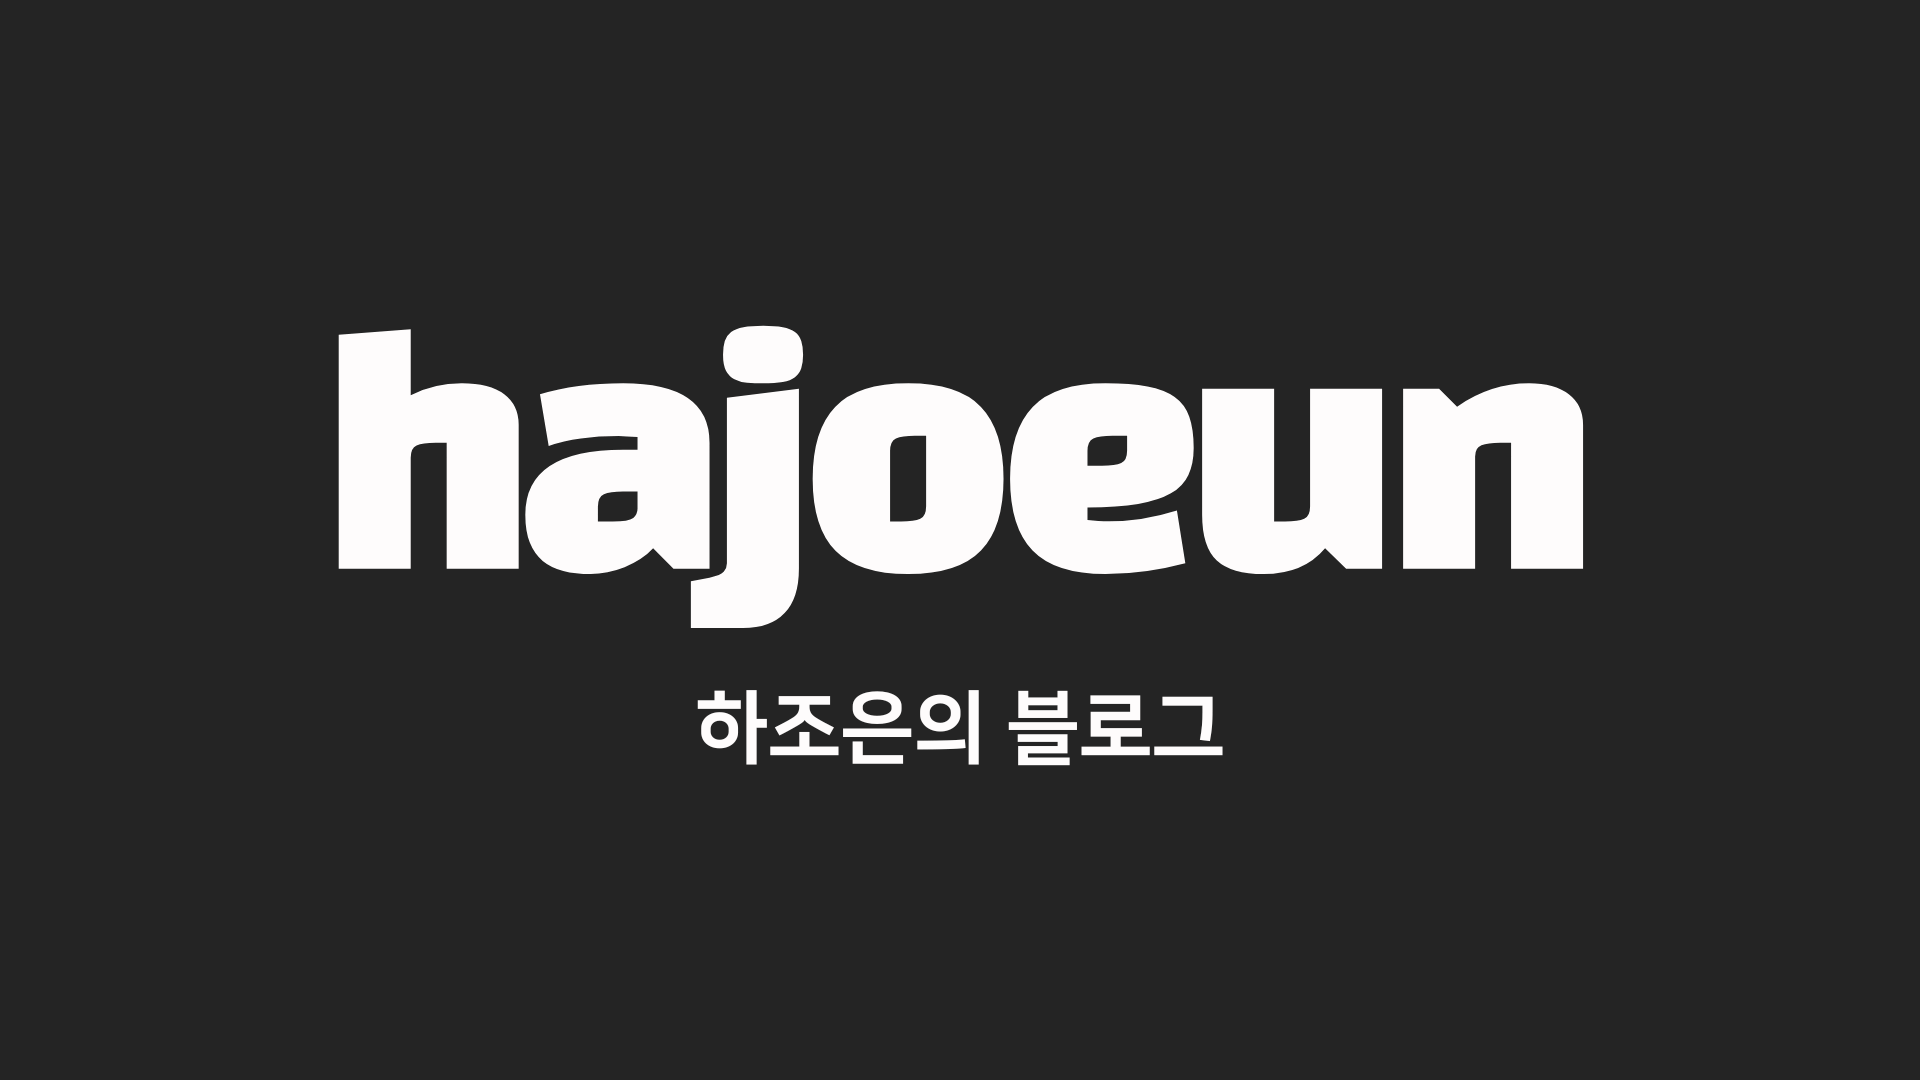
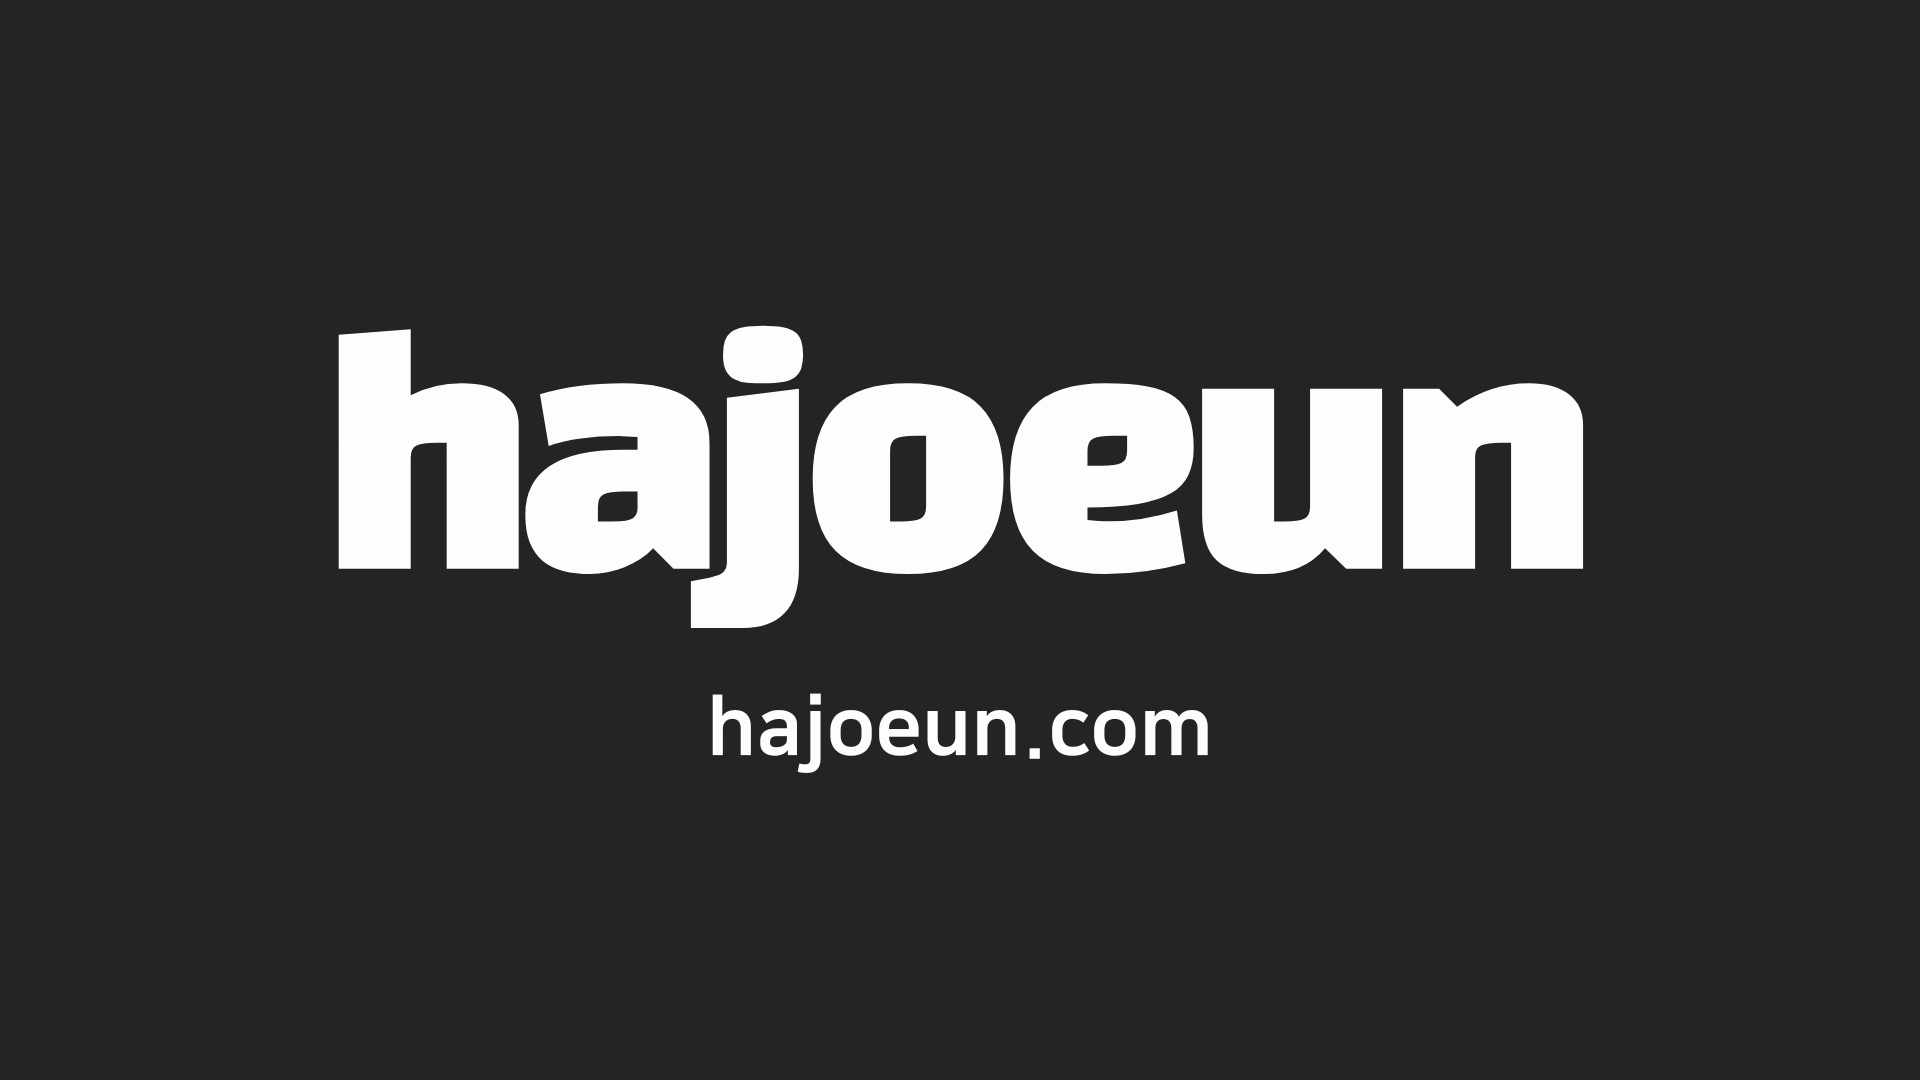
update - opengraph

Changed region(s): [[0.3438, 0.6417, 0.6562, 0.7333]]

diff --git a/app/page.tsx b/app/page.tsx
@@ -2,11 +2,11 @@ import { PostList } from '@/components/post-list';
 import { getPosts } from '@/utils/get-posts';
 
 export const metadata = {
-  title: 'hajoeun.com/posts',
-  description: '하조은의 글간',
+  title: 'hajoeun',
+  description: 'hajoeun.com',
   openGraph: {
-    title: 'hajoeun.com/posts',
-    description: '하조은의 글간',
+    title: 'hajoeun',
+    description: 'hajoeun.com',
     url: 'https://hajoeun.com',
     siteName: 'hajoeun.com',
   },
